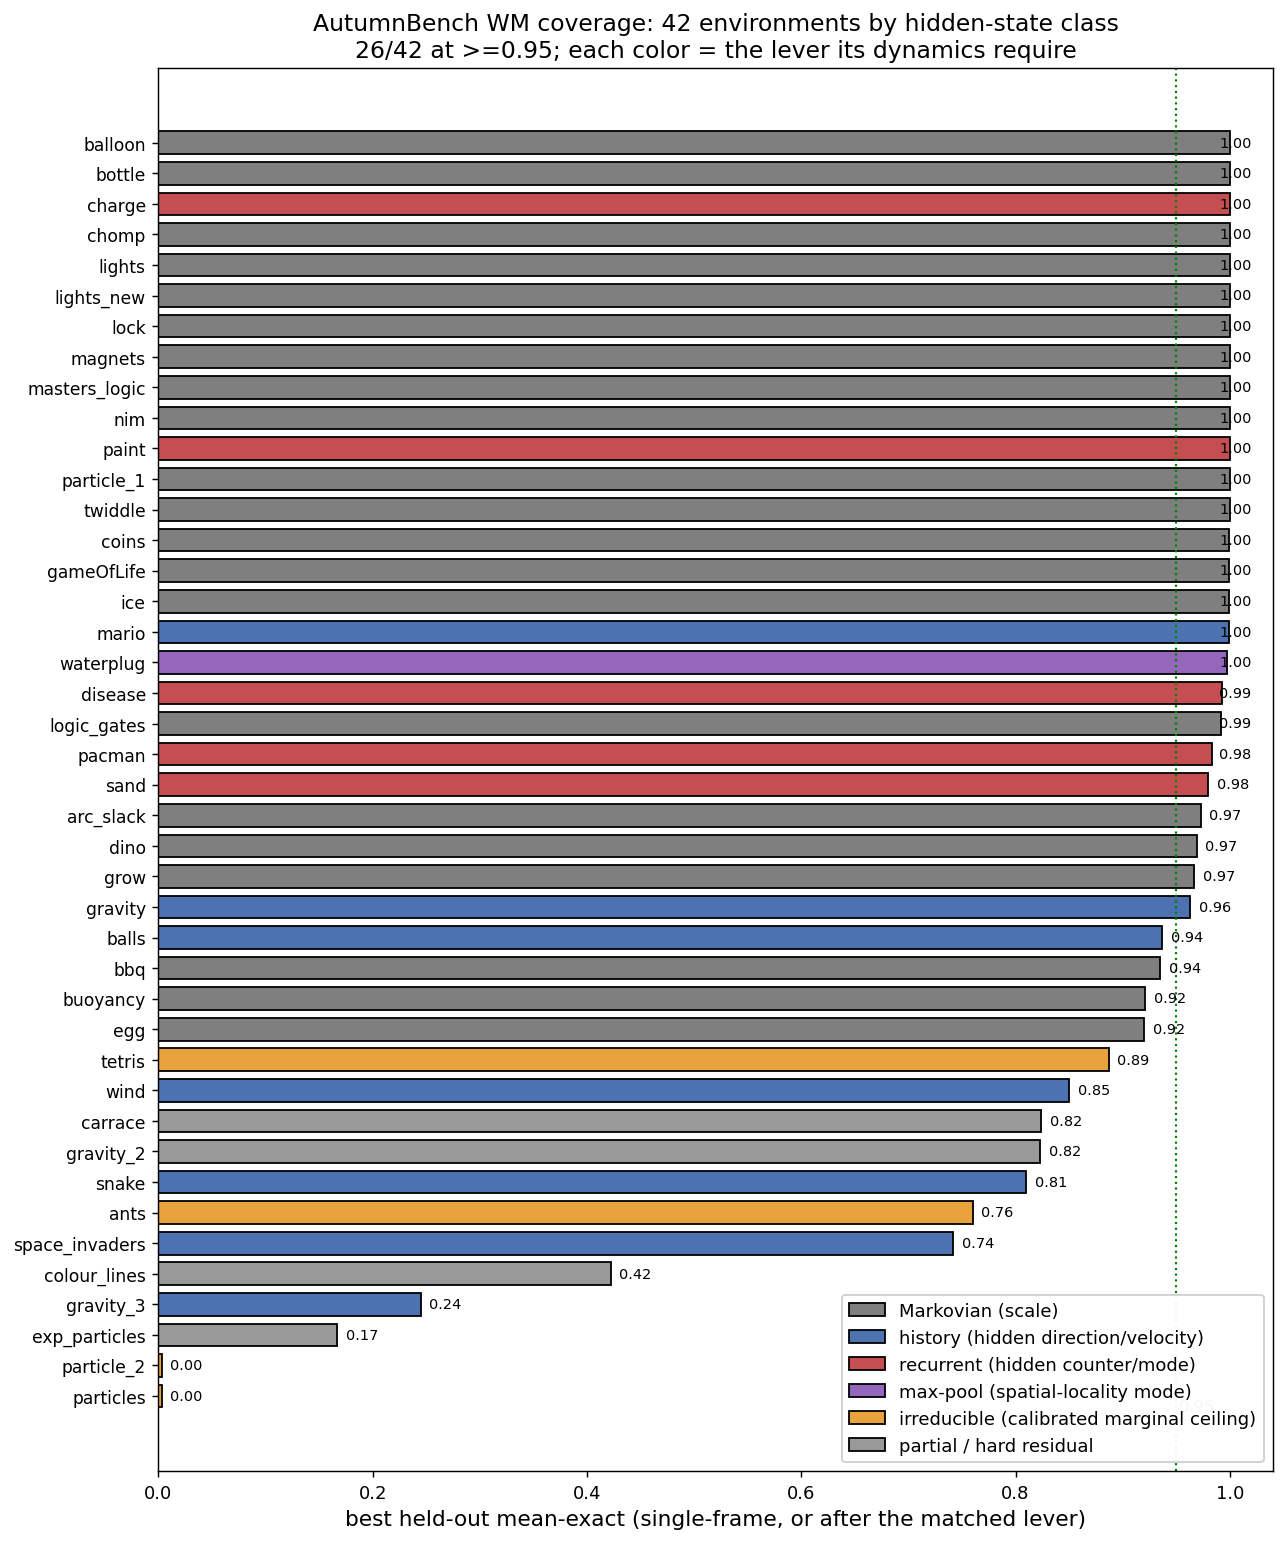
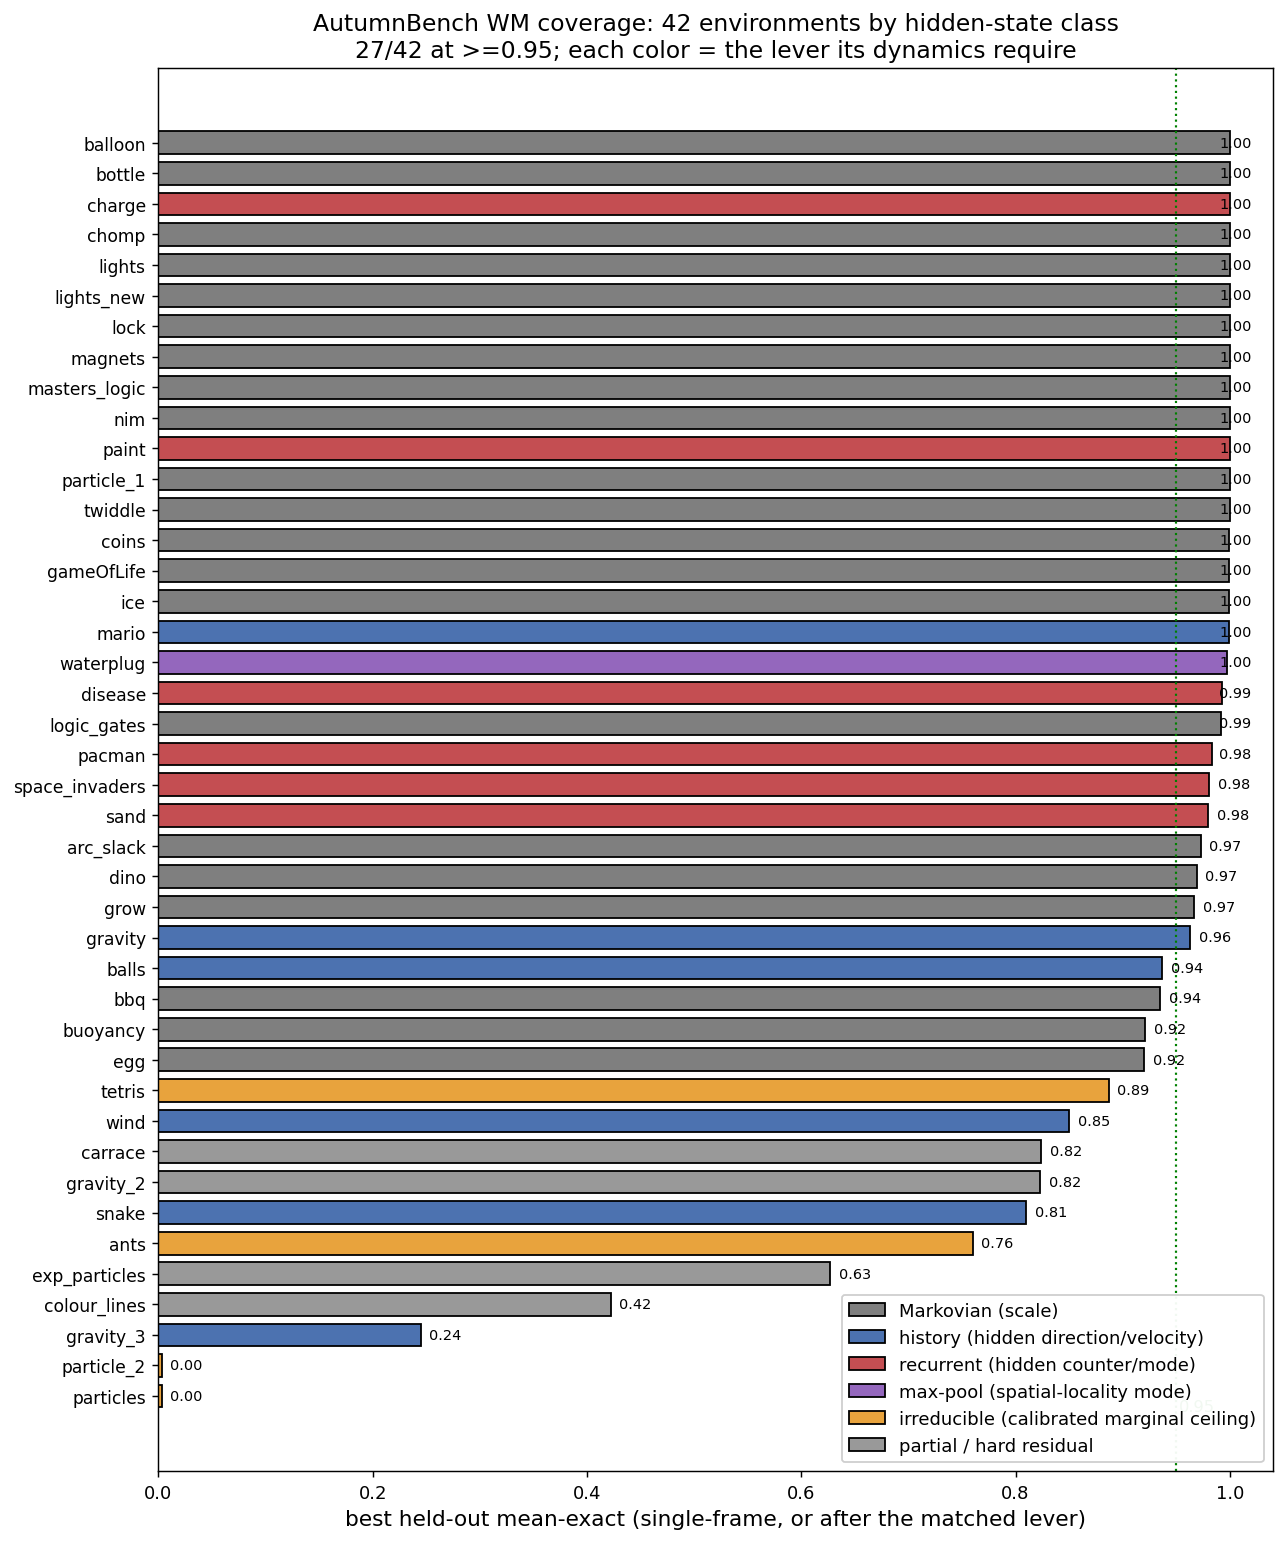
Autumn recurrent passes: space_invaders solved; lever boundary mapped
Recurrent on the partial-history games: space_invaders history 0.742 ->
recurrent 0.981 changed-cell (clean win — multi-variable march direction +
drop timing, like pacman); exp_particles 0.627 (partial, particle explosion);
gravity_3 inconclusive (near-static seqs, degenerate metric). Maps the lever
boundary: recurrent solves single- AND multi-variable hidden state cleanly,
but 2nd-order (acceleration) and chaotic-particle dynamics stay partial.
Updates breadth_coverage figure (27/42 >=0.95).

Changed region(s): [[0.0311, 0.4981, 0.965, 0.8716]]

diff --git a/nca_wm/autumn/WORKLOG.md b/nca_wm/autumn/WORKLOG.md
@@ -280,6 +280,13 @@ for big grids, not whole-grid-exact. Coverage ~49/59 (93 viewer models). Remaini
 (sokoban/sokoban_ii/peg_solitaire/boids/mobileMagnet/ricochet_robots*/rink/chaos_game) + count_1/4/5/balls2. Breadth
 sweep substantially complete; diagnostic framework validated across ~49 environments (Markovian/history/recurrent/
 maxpool/irreducible all represented with worked examples).
+**Recurrent passes on the partial-history games (boundary of the lever):**
+- space_invaders: history 0.742 -> **recurrent changed-cell 0.981** = CLEAN WIN (multi-variable march direction +
+  drop timing, like pacman — recurrent tracks all hidden vars).
+- exp_particles: **recurrent 0.627** changed-cell = partial (hard particle-explosion dynamics).
+- gravity_3: INCONCLUSIVE (agent-profile seqs near-static -> changed_cell 0.000 degenerate metric, like hatch).
+BOUNDARY: recurrent solves single-variable AND multi-variable hidden state cleanly (pacman, charge, disease,
+space_invaders all >=0.98); 2nd-order (acceleration: gravity_3) and explosion/chaotic-particle dynamics stay partial.
 
 ### Mario over-firing (task #9): blocked on hard platforming navigation — diagnosed, deferred (2026-06-23)
 The recurrent mario over-fires because the bullet DECREMENT is undersampled. Root cause is a DATA bottleneck:
